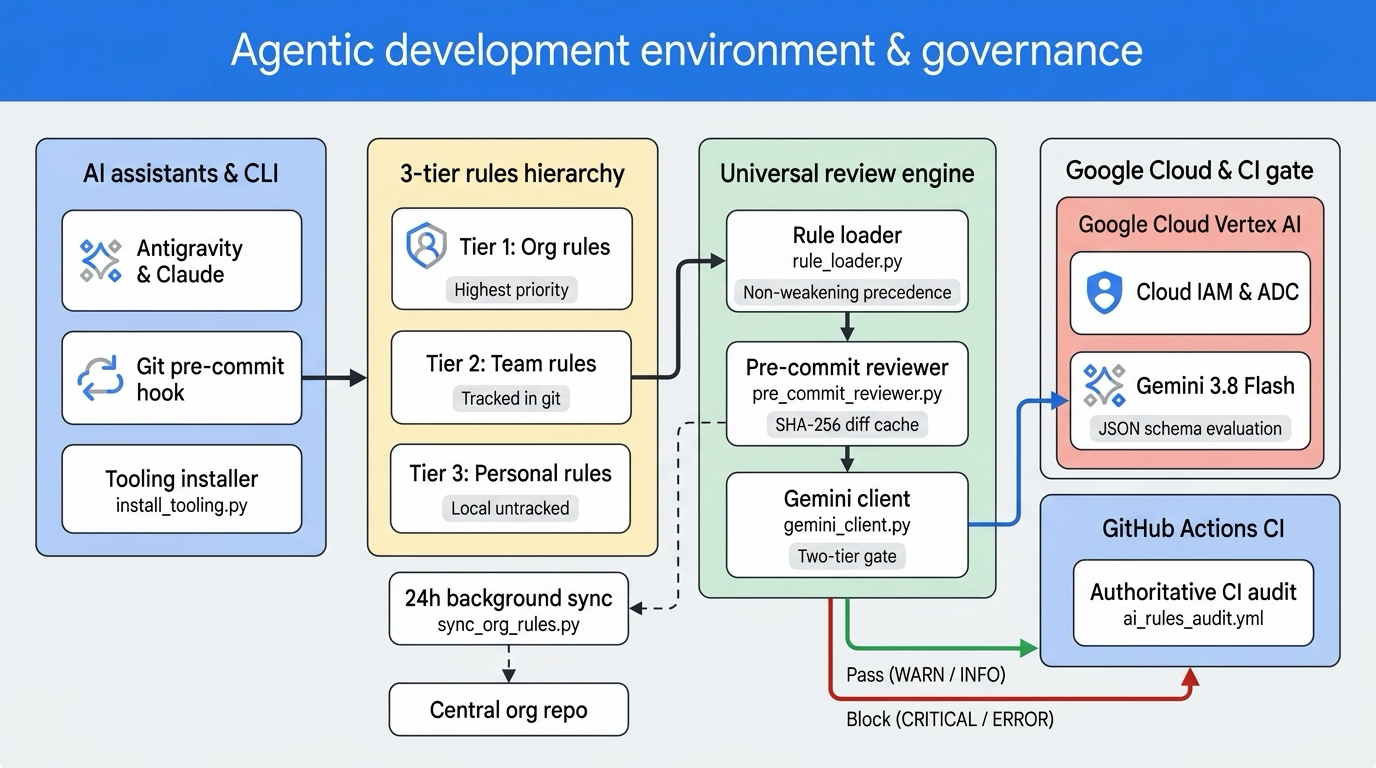
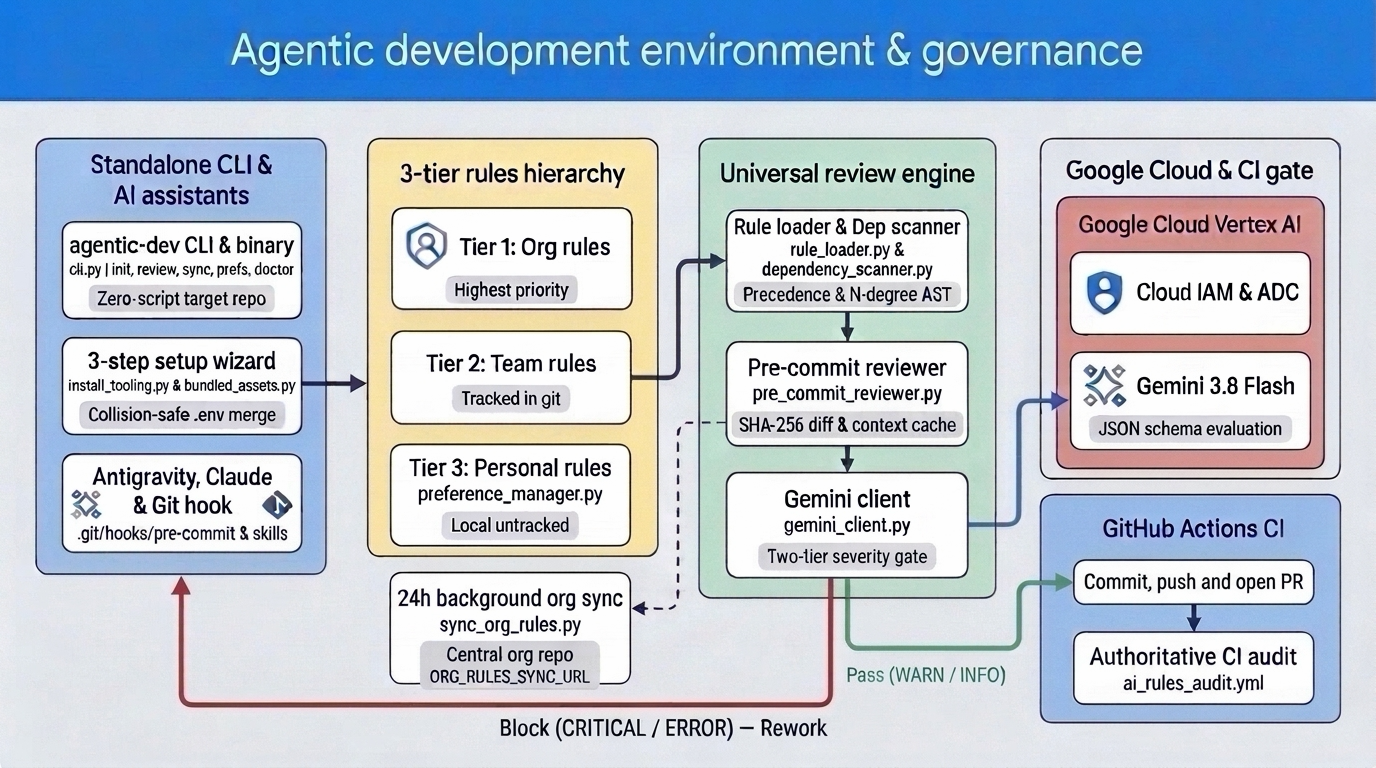
docs(cli): update architecture diagram, README, and binary build flags

Changed region(s): [[0.0, 0.1875, 1.0, 0.9688], [0.0, 0.0312, 1.0, 0.1562], [0.3125, 0.4688, 0.4062, 0.5312]]

diff --git a/tests/unit/test_cli.py b/tests/unit/test_cli.py
@@ -10,6 +10,13 @@ from contextlib import redirect_stderr, redirect_stdout
 from pathlib import Path
 from unittest.mock import patch
 
+from scripts.build_binary import (
+    BINARY_FILENAME,
+    ZIPAPP_FILENAME,
+)
+from scripts.build_binary import (
+    main as build_binary_main,
+)
 from scripts.cli import main as cli_main
 
 
@@ -194,6 +201,76 @@ class TestUnifiedCLI(unittest.TestCase):
         ]
         self.assertIn(".agents/hooks.json", gi_entries)
         self.assertFalse(any(line.startswith("scripts/") for line in gi_entries))
+
+    def test_build_binary_pyz_only_builds_only_zipapp(self) -> None:
+        project_root = Path(__file__).resolve().parent.parent.parent
+        out_dir = self.root_dir / "dist_pyz"
+        install_dir = self.root_dir / "local_bin"
+
+        buf = io.StringIO()
+        with redirect_stdout(buf):
+            rc = build_binary_main(
+                [
+                    "--root-dir",
+                    str(project_root),
+                    "--output-dir",
+                    str(out_dir),
+                    "--pyz-only",
+                    "--install-local",
+                    "--install-dir",
+                    str(install_dir),
+                ]
+            )
+        self.assertEqual(rc, 0)
+        self.assertTrue((out_dir / ZIPAPP_FILENAME).is_file())
+        self.assertFalse((out_dir / BINARY_FILENAME).exists())
+        self.assertTrue((install_dir / BINARY_FILENAME).is_file())
+
+    def test_build_binary_native_only_success_and_missing_pyinstaller(self) -> None:
+        project_root = Path(__file__).resolve().parent.parent.parent
+        out_dir = self.root_dir / "dist_native"
+
+        # 1. When PyInstaller is unavailable, --native-only returns 1 and does not build .pyz
+        err_buf = io.StringIO()
+        with (
+            patch("scripts.build_binary.build_native_binary", return_value=None),
+            redirect_stderr(err_buf),
+        ):
+            rc_fail = build_binary_main(
+                [
+                    "--root-dir",
+                    str(project_root),
+                    "--output-dir",
+                    str(out_dir),
+                    "--native-only",
+                ]
+            )
+        self.assertEqual(rc_fail, 1)
+        self.assertIn("cannot build --native-only binary", err_buf.getvalue())
+        self.assertFalse((out_dir / ZIPAPP_FILENAME).exists())
+
+        # 2. When PyInstaller succeeds, --native-only builds only native binary and skips .pyz
+        out_dir.mkdir(parents=True, exist_ok=True)
+        fake_native = out_dir / BINARY_FILENAME
+        fake_native.write_bytes(b"#!/bin/sh\necho native\n")
+
+        out_buf = io.StringIO()
+        with (
+            patch("scripts.build_binary.build_native_binary", return_value=fake_native),
+            redirect_stdout(out_buf),
+        ):
+            rc_ok = build_binary_main(
+                [
+                    "--root-dir",
+                    str(project_root),
+                    "--output-dir",
+                    str(out_dir),
+                    "--native-only",
+                ]
+            )
+        self.assertEqual(rc_ok, 0)
+        self.assertTrue((out_dir / BINARY_FILENAME).is_file())
+        self.assertFalse((out_dir / ZIPAPP_FILENAME).exists())
 
 
 if __name__ == "__main__":

diff --git a/scripts/build_binary.py b/scripts/build_binary.py
@@ -215,10 +215,18 @@ def main(argv: Sequence[str] | None = None) -> int:
         default=DEFAULT_DIST_DIR,
         help=f"Output directory for built artifacts (default: {DEFAULT_DIST_DIR})",
     )
-    parser.add_argument(
+    mode_group = parser.add_mutually_exclusive_group()
+    mode_group.add_argument(
         "--zipapp-only",
+        "--pyz-only",
+        dest="zipapp_only",
         action="store_true",
         help="Build only `dist/agentic-dev.pyz` (skip PyInstaller native binary)",
+    )
+    mode_group.add_argument(
+        "--native-only",
+        action="store_true",
+        help="Build only `dist/agentic-dev` via PyInstaller (skip .pyz zipapp)",
     )
     parser.add_argument(
         "--install-local",
@@ -237,12 +245,14 @@ def main(argv: Sequence[str] | None = None) -> int:
     if not out_dir.is_absolute():
         out_dir = (root / out_dir).resolve()
 
-    # 1. Always build stdlib zipapp (`dist/agentic-dev.pyz`)
-    pyz_path = build_zipapp(root_dir=root, output_path=out_dir / ZIPAPP_FILENAME)
-    pyz_kb = pyz_path.stat().st_size / 1024
-    print(f"✅ Built portable zipapp -> {pyz_path} ({pyz_kb:.1f} KB)")
+    primary_artifact: Path | None = None
 
-    primary_artifact = pyz_path
+    # 1. Build stdlib zipapp (`dist/agentic-dev.pyz`) unless --native-only
+    if not args.native_only:
+        pyz_path = build_zipapp(root_dir=root, output_path=out_dir / ZIPAPP_FILENAME)
+        pyz_kb = pyz_path.stat().st_size / 1024
+        print(f"✅ Built portable zipapp -> {pyz_path} ({pyz_kb:.1f} KB)")
+        primary_artifact = pyz_path
 
     # 2. Build standalone native binary via PyInstaller unless --zipapp-only
     if not args.zipapp_only:
@@ -251,23 +261,20 @@ def main(argv: Sequence[str] | None = None) -> int:
             native_mb = native_path.stat().st_size / (1024 * 1024)
             print(f"✅ Built standalone native binary -> {native_path} ({native_mb:.1f} MB)")
             primary_artifact = native_path
-        else:
+        elif primary_artifact is not None:
             # Copy .pyz to dist/agentic-dev as executable fallback when PyInstaller is unavailable
             fallback_bin = out_dir / BINARY_FILENAME
-            shutil.copy2(pyz_path, fallback_bin)
+            shutil.copy2(primary_artifact, fallback_bin)
             _set_executable(fallback_bin)
             print(
                 f"ℹ  PyInstaller not found; copied executable zipapp to {fallback_bin}"
             )
             primary_artifact = fallback_bin
-    else:
-        fallback_bin = out_dir / BINARY_FILENAME
-        if not fallback_bin.exists():
-            shutil.copy2(pyz_path, fallback_bin)
-            _set_executable(fallback_bin)
-            primary_artifact = fallback_bin
+        else:
+            print("❌ PyInstaller not found; cannot build --native-only binary.", file=sys.stderr)
+            return 1
 
-    if args.install_local:
+    if args.install_local and primary_artifact is not None:
         installed = install_local_binary(primary_artifact, install_dir=args.install_dir)
         print(f"🚀 Installed `agentic-dev` locally -> {installed}")
 

diff --git a/scripts/install_tooling.py b/scripts/install_tooling.py
@@ -225,6 +225,10 @@ GITIGNORE_START_TAG = "# BEGIN AGENTIC DEV TOOLING GITIGNORE (Auto-generated by 
 GITIGNORE_END_TAG = "# END AGENTIC DEV TOOLING GITIGNORE"
 
 PORTED_TOOLING_SCRIPTS: tuple[str, ...] = (
+    "scripts/__init__.py",
+    "scripts/build_binary.py",
+    "scripts/bundled_assets.py",
+    "scripts/cli.py",
     "scripts/constants.py",
     "scripts/dependency_scanner.py",
     "scripts/gemini_client.py",

diff --git a/README.md b/README.md
@@ -22,17 +22,26 @@ This repository provides:
 
 ![Agentic Development Environment & Governance Architecture](assets/architecture_diagram.png)
 
-### 1. Multi-Tier Governance Architecture
+### 1. Multi-Tier Governance & CLI Flow Architecture
 
-Rules are partitioned into three distinct lifecycles to prevent cross-contamination, rule drift, and VCS merge conflicts:
+Rules are partitioned into three distinct lifecycles and orchestrated through the unified `agentic-dev` CLI (`scripts/cli.py`) to prevent cross-contamination, rule drift, and VCS merge conflicts:
 
 ```mermaid
 flowchart TD
+    subgraph CLI ["Standalone CLI & Setup Wizard (agentic-dev / cli.py)"]
+        C1["agentic-dev init: 3-Step Setup Wizard (install_tooling.py)"]
+        C2["Template & Collision-Safe .env Merger (bundled_assets.py)"]
+        C3["agentic-dev doctor: Hook, Rule & Auth Diagnostics"]
+        C4["Git Hook (.git/hooks/pre-commit) & Assistant Skills (.agents/ & .claude/)"]
+        C1 --> C2
+        C1 --> C4
+    end
+
     subgraph Tier1 ["Tier 1: Organization Rules (org/)"]
         O1["Security Policy (org-02-security-and-secrets.md)"]
         O2["Branch Protection (org-01-meta-guidelines.md)"]
         O3["Managed by: AI CoE / InfoSec / Platform Team"]
-        O4["Sync: 24h Background Worker or Authoritative CI"]
+        O4["agentic-dev sync (sync_org_rules.py): 24h Background Worker / ORG_RULES_SYNC_URL"]
     end
 
     subgraph Tier2 ["Tier 2: Team / Service Rules (team/)"]
@@ -44,13 +53,26 @@ flowchart TD
 
     subgraph Tier3 ["Tier 3: Personal Preferences (personal/)"]
         P1["Developer Habits (personal-01-preferences.md)"]
-        P2["Managed by: Individual Developer"]
+        P2["agentic-dev prefs (preference_manager.py): Semantic Collision Check"]
         P3["VCS Status: Untracked (.gitignore) or Global Config"]
     end
 
-    Tier1 -->|Strict Precedence: Cannot be overridden| Engine[Review Engine: pre_commit_reviewer.py]
-    Tier2 -->|Contextual Architecture Rules| Engine
-    Tier3 -->|Ergonomics: Cannot weaken higher tiers| Engine
+    subgraph Engine ["Universal Review Engine (agentic-dev review / pre_commit_reviewer.py)"]
+        E1["Rule Loader (rule_loader.py): Non-Weakening Precedence (Org > Team > Personal)"]
+        E2["Dependency Scanner (dependency_scanner.py): Bidirectional N-Degree AST & Call Sites"]
+        E3["Gemini Client (gemini_client.py): Gemini 3.8 Flash + SHA-256 Cache + Two-Tier Gate"]
+        E1 --> E3
+        E2 --> E3
+    end
+
+    C2 -.->|Configures ORG_RULES_SYNC_URL| O4
+    C4 -->|Triggers on git commit| Engine
+    Tier1 -->|Strict Precedence: Cannot be overridden| E1
+    Tier2 -->|Contextual Architecture Rules| E1
+    Tier3 -->|Ergonomics: Cannot weaken higher tiers| E1
+    E3 -->|Pass: WARN / INFO| OpenPR["Commit, push and open PR"]
+    OpenPR --> CI["Authoritative CI Audit (ai_rules_audit.yml)"]
+    E3 -->|Block: CRITICAL / ERROR — Rework| CLI
 ```
 
 ### 2. The 24-Hour Non-Blocking Org Rule Sync & Review Cycle
@@ -59,33 +81,45 @@ flowchart TD
 sequenceDiagram
     autonumber
     actor DevOrAgent as Assistant / Developer
+    participant CLI as agentic-dev init (Setup Wizard)
     participant Git as Git CLI
     participant Hook as .git/hooks/pre-commit
-    participant Reviewer as pre_commit_reviewer.py
-    participant Worker as sync_org_rules.py (Detached)
-    participant Engine as Gemini 3.8 Flash Engine
-    participant Central as Central Rules Endpoint / Org Repo
+    participant Reviewer as agentic-dev review (pre_commit_reviewer.py)
+    participant Worker as agentic-dev sync (sync_org_rules.py)
+    participant Scanner as dependency_scanner.py & rule_loader.py
+    participant Engine as Gemini 3.8 Flash (gemini_client.py)
+    participant Central as Central Rules Repo (ORG_RULES_SYNC_URL)
+
+    opt One-Time Workspace Initialization
+        DevOrAgent->>CLI: ./agentic-dev init (3-Step Wizard)
+        CLI->>CLI: Merge .env / .env.example & .gitignore (bundled_assets.py)
+        CLI->>Hook: Install .git/hooks/pre-commit & assistant skills (.agents/, .claude/)
+        CLI->>Central: Initial sync of Tier 1 Org rules into .agents/rules/org/
+    end
 
     DevOrAgent->>Git: git commit -m "feat(auth): add login handler"
     Git->>Hook: Execute pre-commit hook
-    Hook->>Reviewer: Run review check
+    Hook->>Reviewer: Run `agentic-dev review`
     Reviewer->>Reviewer: Check .agents/rules/org/.sync_timestamp
 
     alt Timestamp > 24 Hours (or Missing)
         Reviewer-->>Worker: Spawn detached background process (0ms delay)
-        Note over Worker: Runs asynchronously in background:<br/>Fetches latest org rules from Central<br/>Validates & atomically writes cache<br/>Updates .sync_timestamp
+        Note over Worker,Central: Runs asynchronously in background:<br/>Fetches latest org rules from ORG_RULES_SYNC_URL<br/>Validates & atomically writes cache<br/>Updates .sync_timestamp
     else Timestamp < 24 Hours
         Note over Reviewer: Cache fresh, no background sync needed
     end
 
-    Reviewer->>Reviewer: Scan N-degree upstream/downstream local dependencies (dependency_scanner.py)
-    Reviewer->>Engine: Immediately review staged diff + dependency context against cached rules (Org, Team, Personal)
+    Reviewer->>Scanner: Load 3-tier rules & scan N-degree upstream/downstream dependencies
+    Scanner-->>Reviewer: Matched rules (Org > Team > Personal) + neighbor AST/call-site snippets
+    Reviewer->>Engine: Evaluate staged diff + dependency context (or hit SHA-256 cache)
     alt Critical / Error Violations Detected
-        Engine-->>Hook: Exit Code 1 + Structured Diagnostic Report
+        Engine-->>Reviewer: Structured Violations + Remediation Diff
+        Reviewer-->>Hook: Exit Code 1 + Diagnostic Report
         Hook-->>Git: Block commit
         Git-->>DevOrAgent: ❌ Commit Blocked with remediation instructions
     else Clean Diff or Advisory
-        Engine-->>Hook: Exit Code 0 (WARN advisories printed)
+        Engine-->>Reviewer: Passed (with optional WARN / INFO advisories)
+        Reviewer-->>Hook: Exit Code 0
         Hook-->>Git: Commit allowed
         Git-->>DevOrAgent: ✅ Commit Created Successfully
     end
